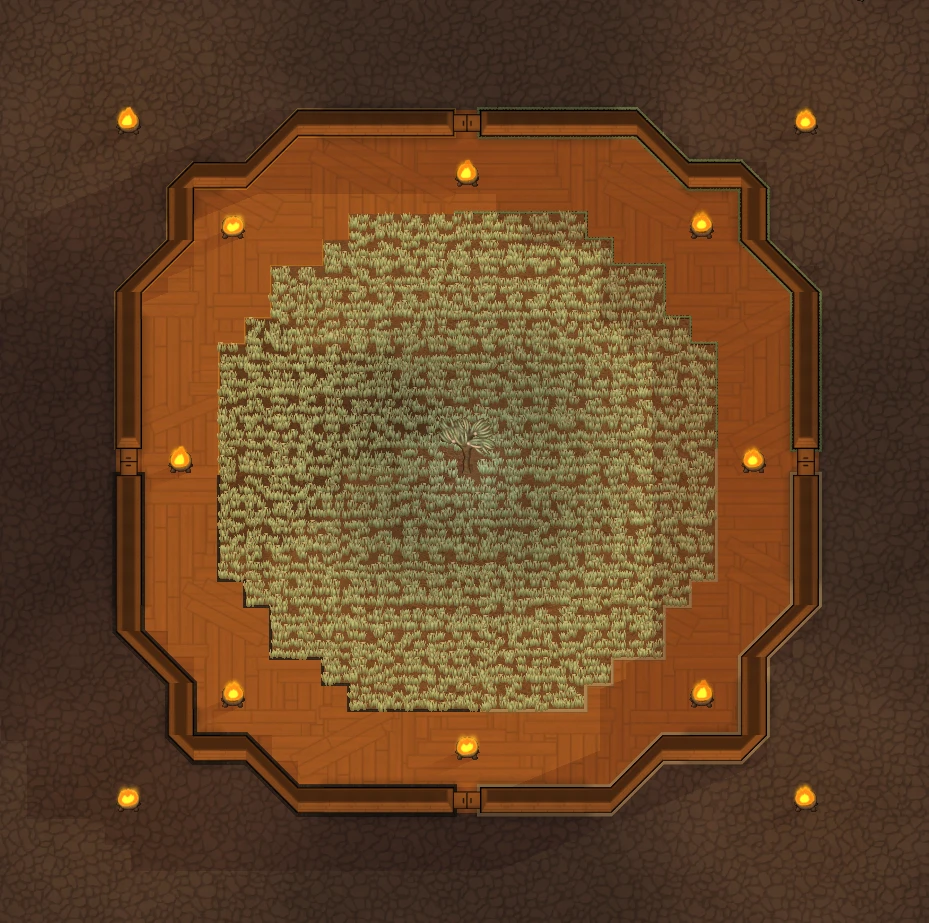
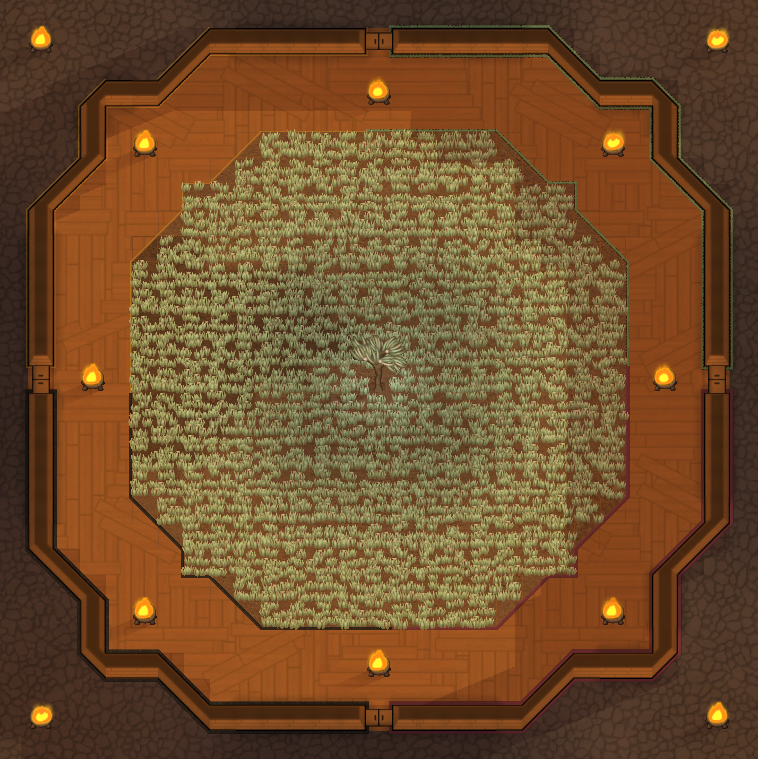
💄 Retake the anima garden card with its new diagonal floors

diff --git a/media/README.md b/media/README.md
@@ -48,7 +48,7 @@ crop by hand where they disagree. Each card's numbers:
 | lab | screenshot, 724×726 | the walls' outer outline, x 72..656, y 73..657 (mirror axis 364.0) | 720×722 at +4+4 | 720×722 |
 | garden | screenshot, 901×802 | across: the rose bed, x 453.5; down: the beds' frames, y 238..566 (the mirror axis read 396.5, pulled up by the plant art) | 894×800 at +7+2 | 894×800 |
 | bar | screenshot from the main save, 944×651 | across: the mirror axis, x 471.5; down: kept as framed | 942×651 at +0+0 | 942×651 |
-| anima-garden | screenshot, 929×923 | the walls' outer outline, x 112..818, y 110..816 (centre 465.5, 463.5), framed so the four outer braziers sit in the corners (the mirror axis read low, pulled by the grass and the flames) | 719×721 at +106+103 | 719×721 |
+| anima-garden | bridge capture of cells 32..60 × 110..138 at root size 19.81 (26.14 px per cell, 758×759); under Camera+ the scale is not proportional to root size, so it was stepped to the scale of the hand screenshot it replaced | the walls' outer outline, cells 33..59 × 111..137, with the replaced card's margins (6 px across, 7 down), so the four outer braziers sit in the corners | 719×721 at +20+19 | 719×721 |
 | purple-bedroom | screenshot, 533×501, zoomed out far enough that the bed's owner label is not drawn | the purple carpet corridors, x 81..111 and 423..453, y 80..110 and 391..421 (the mirror axes agree, 267.5 and 251.0) | 531×500 at +2+1 | 531×500 |
 
 The church, lab, garden and bar screenshots are about 42 px per cell; the
@@ -60,6 +60,8 @@ silver columns. So are the anima garden and the purple bedroom. The anima
 garden is an octagon of totemic boards round an anima tree and its grass, each
 quadrant ringed inside and out in one trim style (gold inlay, vine painted
 pastel green, slate pebbles, wood painted dark mauve), on granite flagstone.
+At each corner the grass meets the boards on the diagonal, in NANAME Floors'
+triangle tiles trimmed in that quadrant's style.
 The purple bedroom and its corridors are deep purple fine carpet edged in
 inlay.
 
